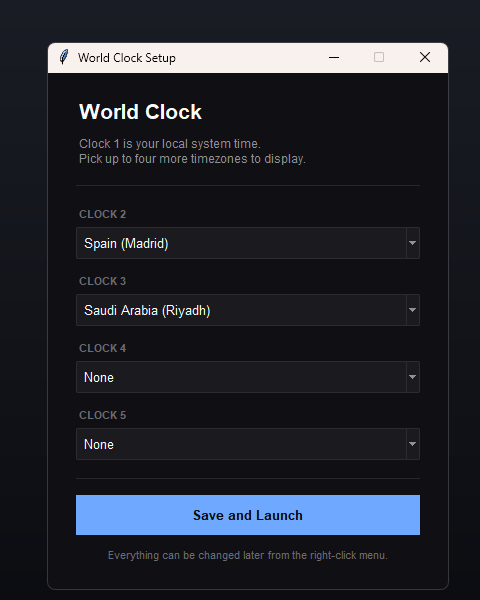
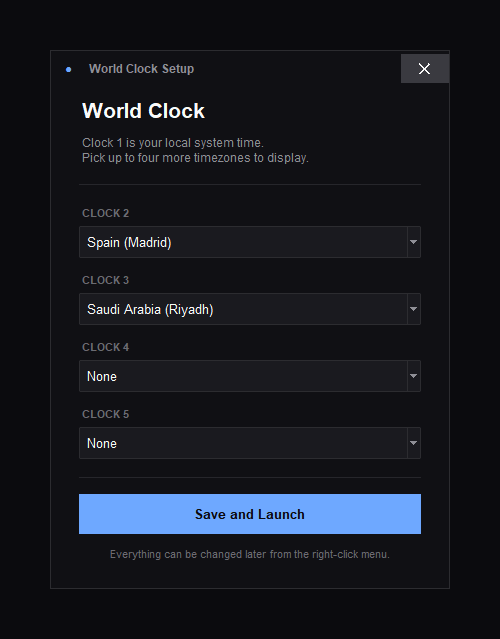
feat: frameless themed setup wizard
The native white title bar (and Python icon) clashed with the dark body
and cannot be recolored. The wizard is now frameless with a custom
header: accent dot + title, drag-to-move, hover-styled close button,
Escape to exit, and a 1px card border like the overlay panel. README
wizard screenshot re-shot.

diff --git a/clock.py b/clock.py
@@ -588,6 +588,10 @@ class WorldClockApp:
         wizard.resizable(False, False)
         wizard.config(bg="#101014")
 
+        # Frameless: the native white title bar (and its Python icon) clashes
+        # with the dark body and cannot be recolored, so draw our own header
+        wizard.overrideredirect(True)
+
         # Keep wizard on top
         wizard.attributes('-topmost', True)
 
@@ -614,8 +618,48 @@ class WorldClockApp:
         wizard.option_add('*TCombobox*Listbox.selectBackground', '#6ea8ff')
         wizard.option_add('*TCombobox*Listbox.selectForeground', '#0b0b0e')
 
-        body = tk.Frame(wizard, bg="#101014")
-        body.pack(fill=tk.BOTH, expand=True, padx=28, pady=24)
+        outer = tk.Frame(wizard, bg="#101014",
+                         highlightthickness=1, highlightbackground="#2c2c30")
+        outer.pack(fill=tk.BOTH, expand=True)
+
+        # Custom header: accent dot + title on the left, close on the right;
+        # dragging the header moves the window (frameless windows can't)
+        header = tk.Frame(outer, bg="#101014")
+        header.pack(fill=tk.X)
+        dot = tk.Label(header, text="●", fg="#6ea8ff", bg="#101014",
+                       font=("Outfit", 9), padx=12, pady=8)
+        dot.pack(side=tk.LEFT)
+        title_lbl = tk.Label(header, text="World Clock Setup",
+                             fg="#8f8f96", bg="#101014",
+                             font=("Outfit", 9, "bold"), anchor="w")
+        title_lbl.pack(side=tk.LEFT)
+        close_lbl = tk.Label(header, text="✕", fg="#8f8f96", bg="#101014",
+                             font=("Outfit", 11), padx=14, pady=4,
+                             cursor="hand2")
+        close_lbl.pack(side=tk.RIGHT)
+        close_lbl.bind('<Button-1>', lambda e: sys.exit(0))
+        close_lbl.bind('<Enter>',
+                       lambda e: close_lbl.config(fg="#fafafa", bg="#3a3a40"))
+        close_lbl.bind('<Leave>',
+                       lambda e: close_lbl.config(fg="#8f8f96", bg="#101014"))
+
+        drag_off = {'x': 0, 'y': 0}
+
+        def header_press(e):
+            drag_off['x'] = e.x_root - wizard.winfo_x()
+            drag_off['y'] = e.y_root - wizard.winfo_y()
+
+        def header_move(e):
+            wizard.geometry(f"+{e.x_root - drag_off['x']}+{e.y_root - drag_off['y']}")
+
+        for widget in (header, dot, title_lbl):
+            widget.bind('<Button-1>', header_press)
+            widget.bind('<B1-Motion>', header_move)
+
+        wizard.bind('<Escape>', lambda e: sys.exit(0))
+
+        body = tk.Frame(outer, bg="#101014")
+        body.pack(fill=tk.BOTH, expand=True, padx=28, pady=(10, 24))
 
         # Title
         tk.Label(